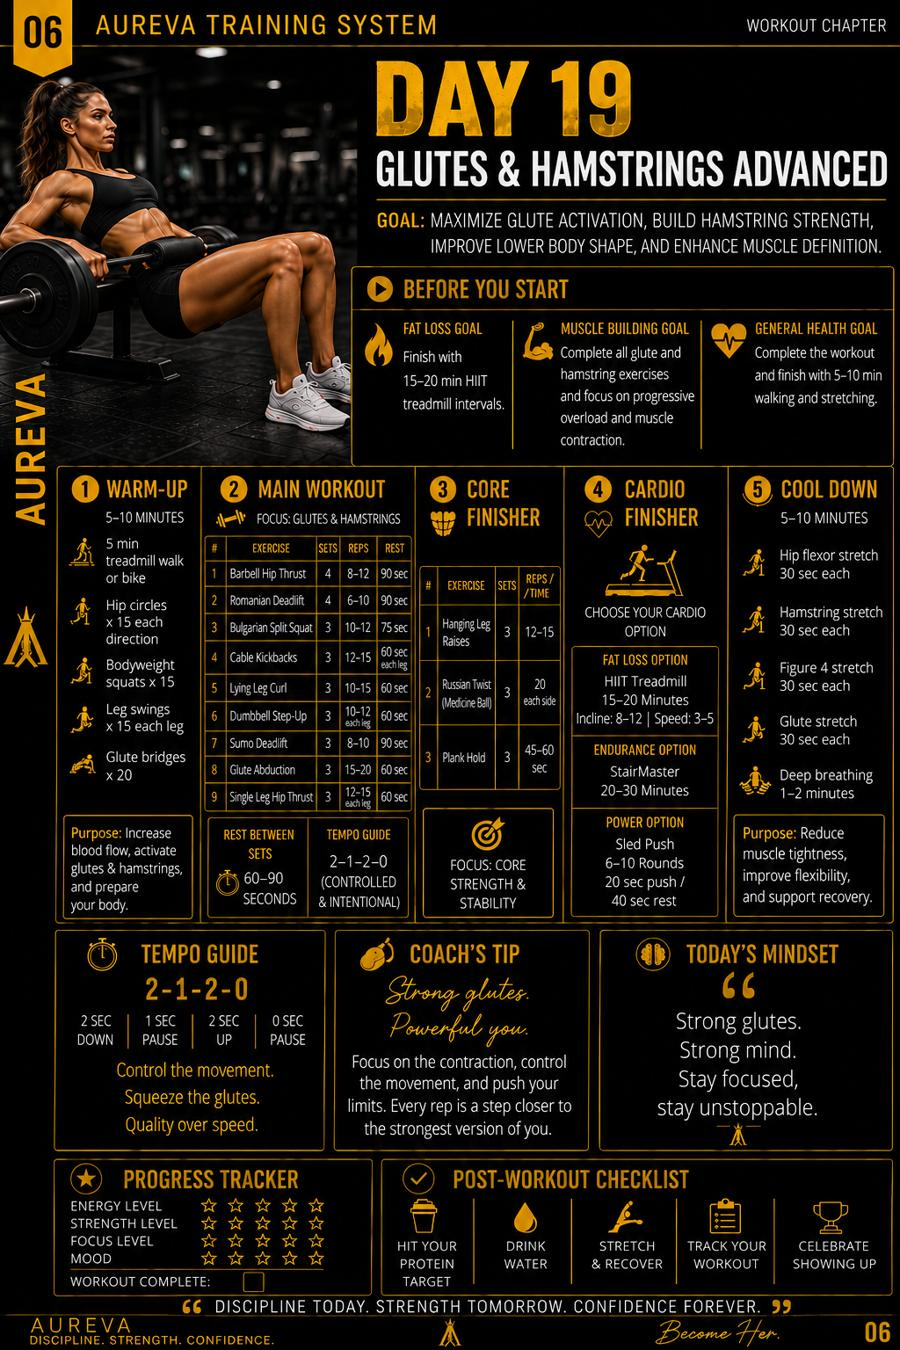
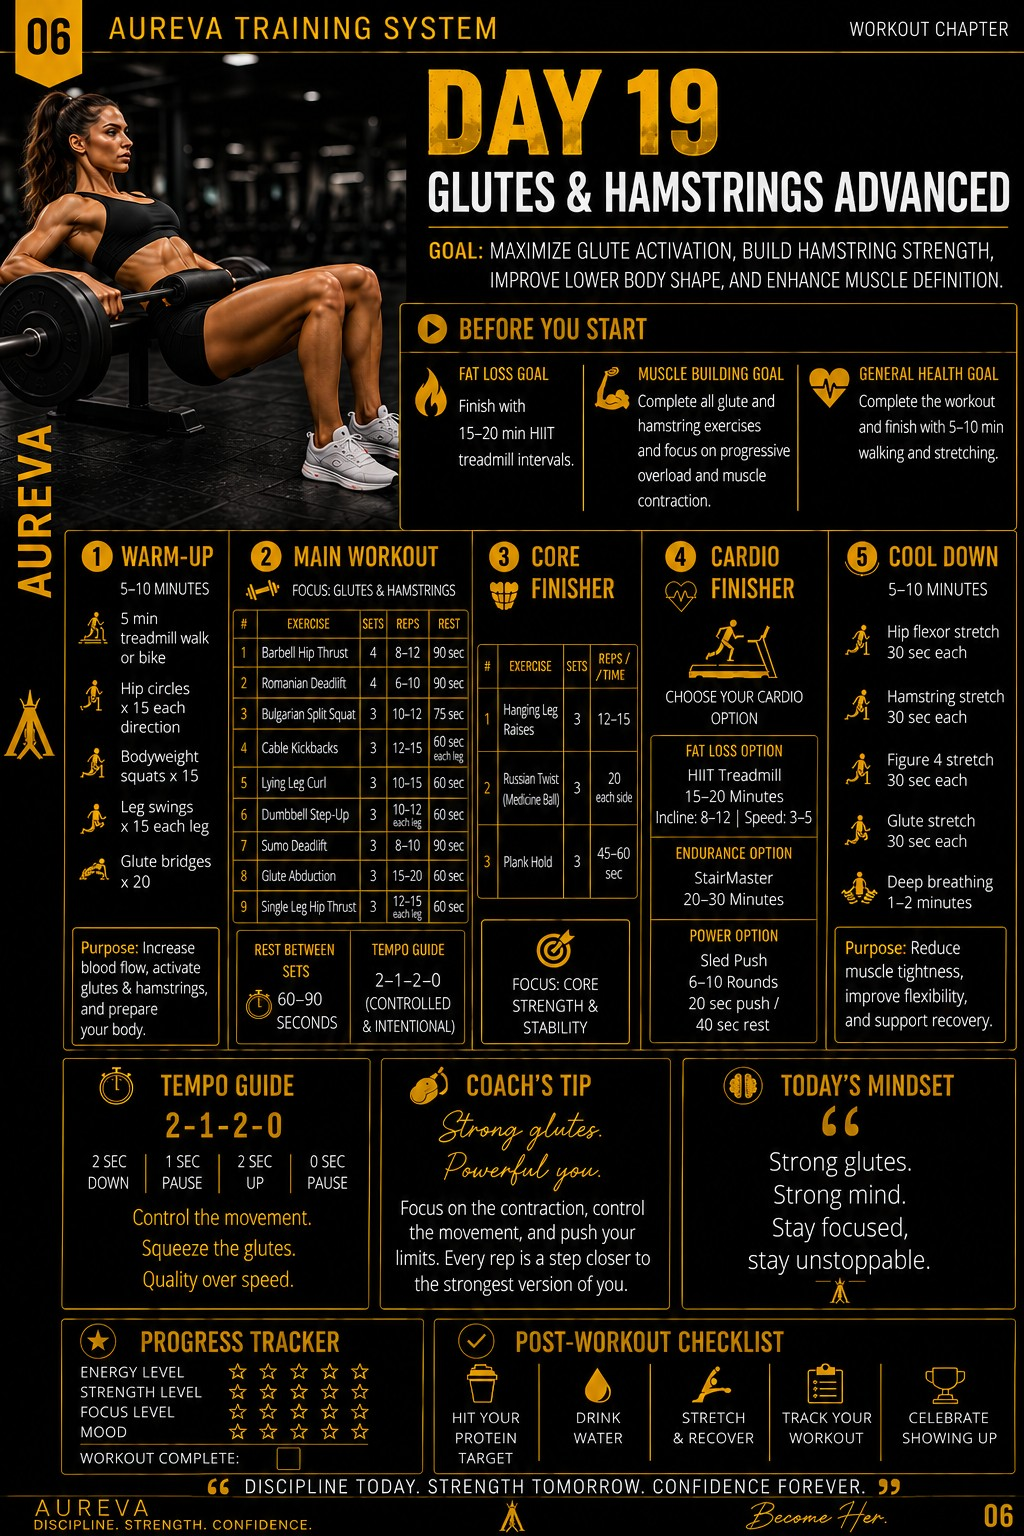
Add files via upload

Changed region(s): [[0.2178, 0.8089, 0.28, 0.84], [0.1556, 0.8089, 0.1867, 0.84]]

diff --git a/workoutImages.js b/workoutImages.js
@@ -1,6 +1,35 @@
+import w1  from './w1.jpg'
+import w2  from './w2.jpg'
+import w3  from './w3.jpg'
+import w4  from './w4.jpg'
+import w5  from './w5.jpg'
+import w6  from './w6.jpg'
+import w7  from './w7.jpg'
+import w8  from './w8.jpg'
+import w9  from './w9.jpg'
+import w10 from './w10.jpg'
+import w11 from './w11.jpg'
+import w12 from './w12.jpg'
+import w13 from './w13.jpg'
+import w14 from './w14.jpg'
+import w15 from './w15.jpg'
+import w16 from './w16.jpg'
+import w17 from './w17.jpg'
+import w18 from './w18.jpg'
 import w19 from './w19.jpg'
+import w20 from './w20.jpg'
+import w21 from './w21.jpg'
+import w22 from './w22.jpg'
+import w23 from './w23.jpg'
+import w24 from './w24.jpg'
+import w25 from './w25.jpg'
+import w26 from './w26.jpg'
+import w27 from './w27.jpg'
+import w28 from './w28.jpg'
 
-// Add each image here as you upload them to GitHub (w1.jpg … w28.jpg)
 export const WORKOUT_IMAGES = {
-  19: w19,
+  1:w1,   2:w2,   3:w3,   4:w4,   5:w5,   6:w6,   7:w7,
+  8:w8,   9:w9,   10:w10, 11:w11, 12:w12, 13:w13, 14:w14,
+  15:w15, 16:w16, 17:w17, 18:w18, 19:w19, 20:w20, 21:w21,
+  22:w22, 23:w23, 24:w24, 25:w25, 26:w26, 27:w27, 28:w28
 }
